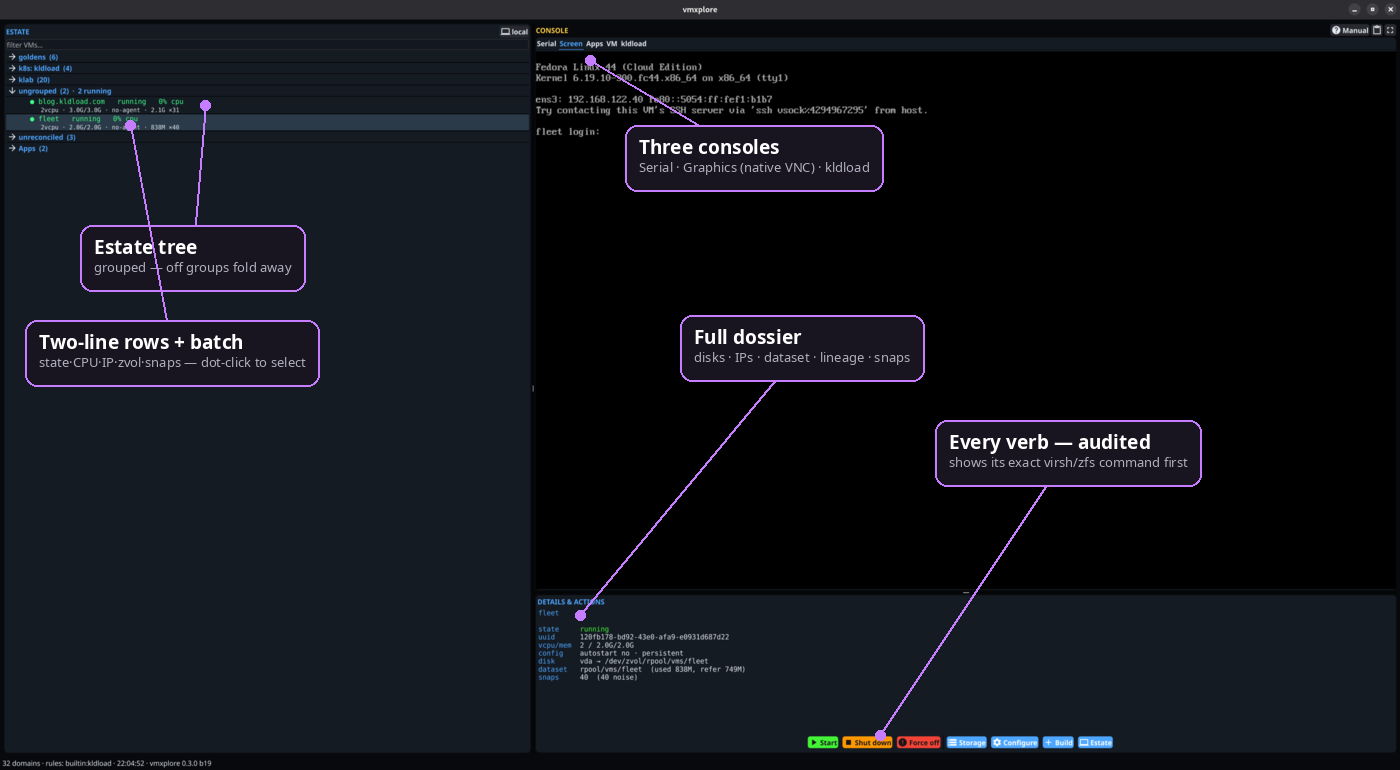
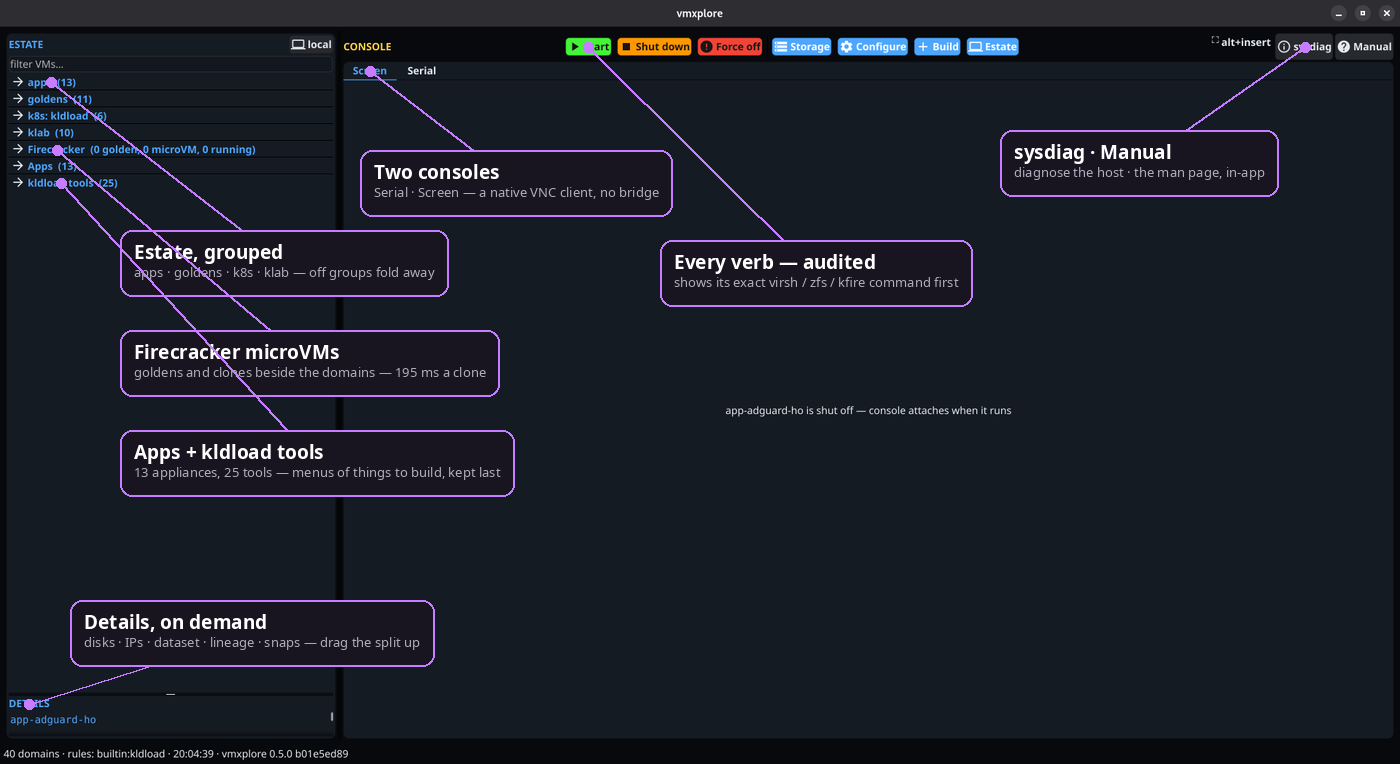
docs(readme): the hero is the 0.5.0 estate, re-annotated
The annotated shot still showed the 0.3.0 window: three console tabs, an
Apps tab in the console card, no Firecracker branch, the verb row at the
bottom. Re-taken on fiend 2026-09-05 at 1920x1080, GNOME bar cropped and
scaled to 1400x764 so the callout type stays the size the README has
always shown. Seven callouts: the grouped estate, the Firecracker branch,
the catalog and tool menus kept last, the details split, the two console
tabs, the audited verb row, and sysdiag + Manual. Coordinates live in
annotate.py as before, so the next UI move costs one command.

diff --git a/assets/annotate.py b/assets/annotate.py
@@ -26,7 +26,7 @@ Usage:
 Notes: coordinates are in PIXELS of the source image, origin top-left. They
 are deliberately not fractions — a callout must point at a widget, and
 widgets do not move proportionally when a window is resized. Re-take shots
-at the same size (1400x773 historically) or update the numbers.
+at the same size (1400x764 today; 1400x773 historically) or update the numbers.
 """
 
 from __future__ import annotations
@@ -85,17 +85,24 @@ def _font(size: int, bold: bool = False):
 # Each entry: (box_x, box_y, anchor_x, anchor_y, title, subtitle).
 # box_* is the callout's top-left; anchor_* is the pixel it points at.
 SHOTS: dict[str, list[tuple]] = {
+    # Re-taken 2026-09-05 on fiend at 1920x1080 (vmxplore 0.5.0), GNOME bar
+    # cropped and scaled to 1400x764 so the callout type stays the size the
+    # README has always shown. Coordinates are in THAT image.
     "estate": [
-        (80, 225, 205, 105, "Estate tree",
-         "grouped — off groups fold away"),
-        (25, 320, 130, 125, "Two-line rows + batch",
-         "state·CPU·IP·zvol·snaps — dot-click to select"),
-        (625, 125, 590, 60, "Three consoles",
-         "Serial · Graphics (native VNC) · kldload"),
-        (680, 315, 580, 615, "Full dossier",
-         "disks · IPs · dataset · lineage · snaps"),
-        (935, 420, 880, 735, "Every verb — audited",
-         "shows its exact virsh/zfs command first"),
+        (120, 230, 51, 82, "Estate, grouped",
+         "apps · goldens · k8s · klab — off groups fold away"),
+        (120, 330, 57, 150, "Firecracker microVMs",
+         "goldens and clones beside the domains — 195 ms a clone"),
+        (120, 430, 61, 183, "Apps + kldload tools",
+         "13 appliances, 25 tools — menus of things to build, kept last"),
+        (70, 600, 29, 704, "Details, on demand",
+         "disks · IPs · dataset · lineage · snaps — drag the split up"),
+        (360, 150, 370, 71, "Two consoles",
+         "Serial · Screen — a native VNC client, no bridge"),
+        (660, 240, 588, 47, "Every verb — audited",
+         "shows its exact virsh / zfs / kfire command first"),
+        (1000, 130, 1305, 47, "sysdiag · Manual",
+         "diagnose the host · the man page, in-app"),
     ],
     # New VM now carries the desktop selector, which is the thing worth
     # pointing at — it is the feature nothing else in this space has.

diff --git a/README.md b/README.md
@@ -17,7 +17,7 @@
 
 **The family:** [kldload](https://github.com/kldload/kldload) — the substrate &middot; [zxplore](https://github.com/zxplore/zxplore) — the ZFS console &middot; [wgxplore](https://github.com/wgxplore/wgxplore) — the WireGuard console &middot; **vmxplore** — the VM console
 
-<img src="assets/screenshots/estate-annotated.png" width="960" alt="vmxplore annotated — the estate tree and the selected machine's dossier on the left, a live console with the verb row above it on the right"/>
+<img src="assets/screenshots/estate-annotated.png" width="960" alt="vmxplore 0.5.0 annotated — the estate tree on the left grouped into apps, goldens, k8s, klab and Firecracker with the appliance catalog and kldload tools last; the console on the right with Serial and Screen tabs, the audited verb row, and sysdiag and Manual"/>
 
 <sub><em>One window, two panes: the estate with its dossier, the console with its verbs — annotated.</em></sub>
 
